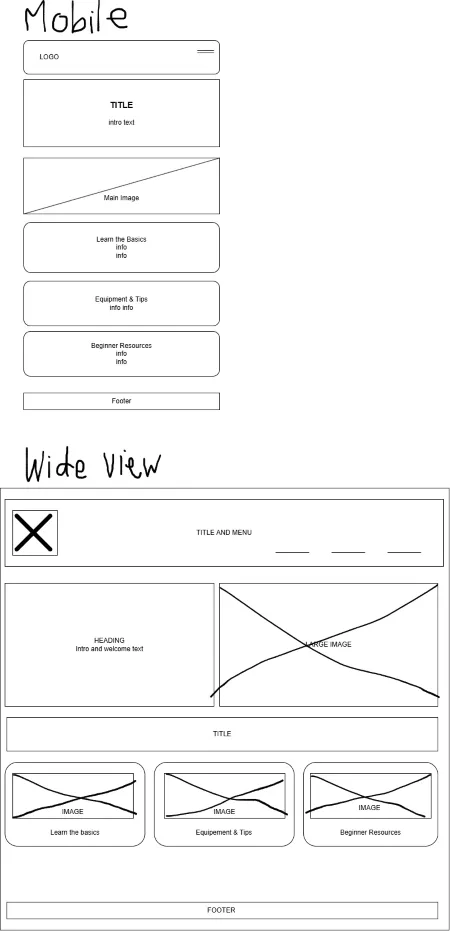
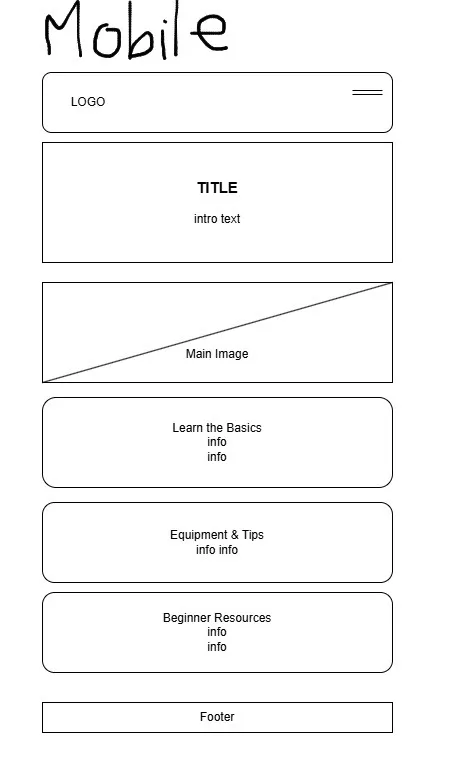
site plan wireframe addition

Changed region(s): [[0.0, 0.0, 1.0, 1.0], [0.1556, 0.6848, 0.3111, 0.716]]

diff --git a/project/siteplan.html b/project/siteplan.html
@@ -1,10 +1,12 @@
 <!DOCTYPE html>
 <html lang="en">
+
 <head>
     <meta charset="UTF-8">
     <meta name="viewport" content="width=device-width, initial-scale=1.0">
     <title>Just A Little Pickle: Beginner Pickleball 101</title>
-    <meta name="description" content="Beginner's guide to pickleball, covering rules, equipment, and tips for new players.">
+    <meta name="description"
+        content="Beginner's guide to pickleball, covering rules, equipment, and tips for new players.">
     <meta name="author" content="Greisa Cajas">
     <link rel="stylesheet" href="siteplan.css">
 
@@ -12,34 +14,35 @@
     <link rel="preconnect" href="https://fonts.gstatic.com" crossorigin>
     <link href="https://fonts.googleapis.com/css2?family=DM+Sans:wght@400;500;700&display=swap" rel="stylesheet">
 </head>
+
 <body>
     <header>
         <h1>Just A Little Pickle</h1>
         <p>Beginner's guide to pickleball - Website Plan</p>
     </header>
-    <main> 
+    <main>
         <section id="site-name">
             <h2>Site Name</h2>
             <p>
                 Proposed domain: justalittlepickle.com
             </p>
 
-             <p>
-            Just A Little Pickle helps people who are new
-            to pickleball learn the fundamentals of the
-            game in a simple, approachable way.
+            <p>
+                Just A Little Pickle helps people who are new
+                to pickleball learn the fundamentals of the
+                game in a simple, approachable way.
             </p>
         </section>
-        
+
         <section id="site-purpose">
             <h2>Site Purpose</h2>
 
-        <p>
-            The website will provide beginner-friendly
-            explanations of the rules, scoring, court
-            layout, basic equipment, and tips for
-            preparing for a first game.
-        </p>
+            <p>
+                The website will provide beginner-friendly
+                explanations of the rules, scoring, court
+                layout, basic equipment, and tips for
+                preparing for a first game.
+            </p>
         </section>
 
         <section id="scenarios">
@@ -47,7 +50,7 @@
             <ul>
                 <li>What are the rules?</li>
                 <li>How do I keep track of pickleball scoring
-            without getting confused?</li>
+                    without getting confused?</li>
                 <li>What kind of paddle should I get?</li>
                 <li>Where do I play?</li>
             </ul>
@@ -56,21 +59,23 @@
         <section id="color-scheme">
             <h2>Color Scheme</h2>
             <p>
-                The website will use a light and fresh color palette, with shades of green and white to reflect the outdoor and sporty nature of pickleball. It also uses a warm, retro Florida-inspired
-        palette to create a welcoming atmosphere.
+                The website will use a light and fresh color palette, with shades of green and white to reflect the
+                outdoor and sporty nature of pickleball. It also uses a warm, retro Florida-inspired
+                palette to create a welcoming atmosphere.
             </p>
             <ul>
                 <li>Palm Green (#264D36): headings and borders</li>
                 <li>Orange (#E9783D): buttons and accents</li>
                 <li>Cream (#FFF4DC): page backgrounds</li>
                 <li>Ink (#292D25): paragraph text</li>
-             </ul>
+            </ul>
         </section>
 
         <section id="typography">
             <h2>Typography</h2>
             <p>
-                The website will use the DM Sans font for a clean and modern look, ensuring readability and a friendly appearance. Bold weights will be used for headings,
+                The website will use the DM Sans font for a clean and modern look, ensuring readability and a friendly
+                appearance. Bold weights will be used for headings,
                 while regular weights will be used for
                 paragraphs and general content.
             </p>
@@ -78,25 +83,60 @@
             <p>
                 Example body text:
                 <br>
-                "Welcome to Just A Little Pickle! Here you'll find everything you need to get started with pickleball." 
+                "Welcome to Just A Little Pickle! Here you'll find everything you need to get started with pickleball."
             </p>
         </section>
 
-        <section id="wireframe">
-            <h2>Wireframe</h2>
-            <
+
+        <section id="wireframes">
+            <h2>Wireframes</h2>
+
             <p>
-                The website will have a simple and intuitive layout, with a clear navigation menu at the top, a hero section introducing the site, followed by sections for rules, scoring, equipment, and tips. Each section will be visually distinct and easy to navigate.
+                The website will have a simple and intuitive layout, with a clear navigation menu at the top, a hero
+                section introducing the site, followed by sections for rules, scoring, equipment, and tips. Each section
+                will be visually distinct and easy to navigate.
             </p>
+
+            <div class="wireframe-container">
+
+                <figure class="wireframe">
+                    <h3>Mobile View</h3>
+
+                    <img src="images/wireframe-small.webp"
+                        alt="Mobile homepage wireframe showing the header, navigation, hero section, and content layout"
+                        loading="lazy">
+
+                    <figcaption>
+                        Mobile layout with vertically stacked
+                        content and a hamburger navigation menu.
+                    </figcaption>
+                </figure>
+
+                <figure class="wireframe">
+                    <h3>Desktop View</h3>
+
+                    <img src="images/wireframe-large.webp"
+                        alt="Desktop homepage wireframe showing horizontal navigation and a wider content layout"
+                        loading="lazy">
+
+                    <figcaption>
+                        Desktop layout with horizontal navigation
+                        and content arranged in multiple columns.
+                    </figcaption>
+                </figure>
+
+            </div>
         </section>
+
 
 
 
 
     </main>
-    
+
     <footer>
         <p>&copy; 2024 Greisa Cajas. All rights reserved.</p>
     </footer>
 </body>
+
 </html>

diff --git a/project/siteplan.css b/project/siteplan.css
@@ -106,3 +106,44 @@ footer {
 .intro p {
     margin: 1rem auto;
 }
+
+.wireframe-container {
+    display: grid;
+    grid-template-columns: 1fr;
+    gap: 2rem;
+    margin-top: 1.5rem;
+}
+
+.wireframe {
+    margin: 0;
+    text-align: center;
+}
+
+.wireframe h3 {
+    color: var(--palm-green);
+}
+
+.wireframe img {
+    display: block;
+    width: 100%;
+    max-width: 600px;
+    height: auto;
+    margin: 1rem auto;
+    border: 2px solid var(--palm-green);
+    border-radius: var(--small-radius);
+}
+
+.wireframe figcaption {
+    color: var(--brown);
+    font-size: 0.9rem;
+    font-style: italic;
+    margin-top: 0.75rem;
+}
+
+
+@media screen and (min-width: 768px) {
+    .wireframe-container {
+        grid-template-columns: repeat(2, minmax(0, 1fr));
+        align-items: start;
+    }
+}
